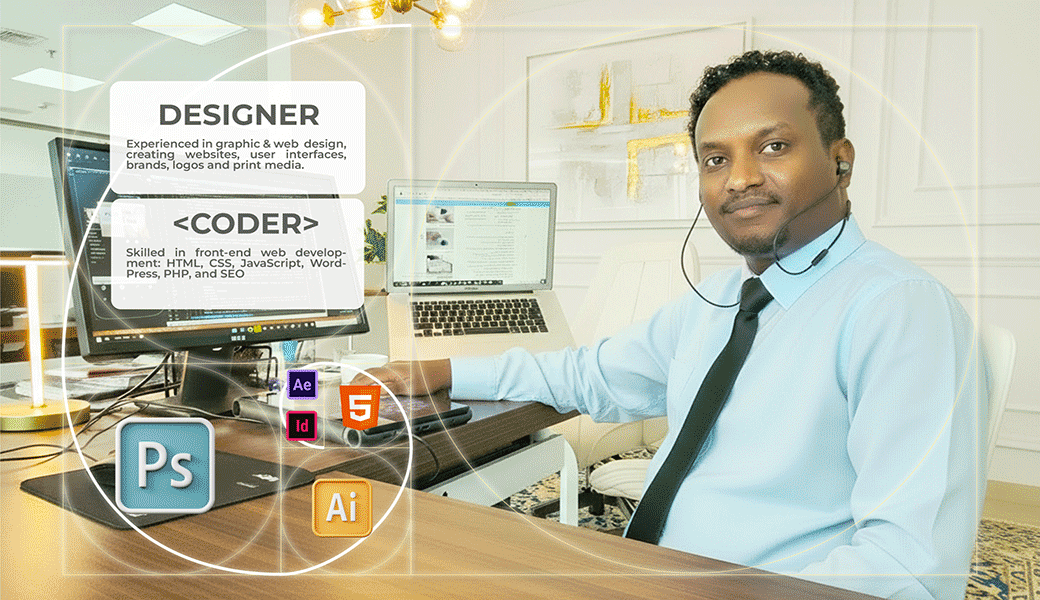
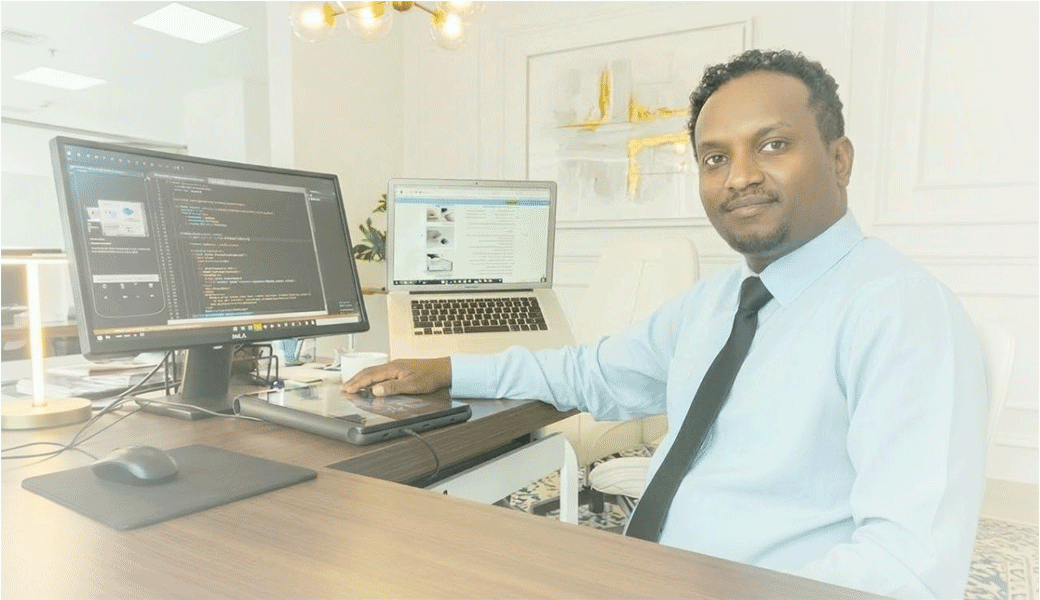
Black bold hero text and latest files

diff --git a/admin.html b/admin.html
@@ -68,7 +68,7 @@ function home(){if(!D.site)D.site=defSite();const s=D.site,I=(k,v,ph='')=>`<inpu
 Lc=(t,x)=>`<div class="lc"><b>${t}</b>${x}</div>`,img=(path,t,i=0)=>`<div class="cov">${path?`<img src="${E(src(path))}" style="object-fit:contain">`:'<span>Default / none</span>'}<div><button data-a="cov" data-t="${t}" data-i="${i}">Upload image</button>${path?`<button data-a="covx" data-t="${t}" data-i="${i}">Remove</button>`:''}</div></div>`;
 $('#ed').innerHTML=`<div class="tb"><b>Home page</b><span class="sp"></span><a href="index.html" target="_blank">Preview live</a></div><p class="hint">Home cards: edit each category's name and image from the list on the left. They appear in the same order.</p>`
 +`<h4>Header &amp; footer</h4>`+Lc('Logo (square PNG, 128×128 or larger)',img(s.logo,'logo'))+`<div class="two">`+L('Facebook link',I('s.social.facebook',s.social.facebook))+L('LinkedIn link',I('s.social.linkedin',s.social.linkedin))+L('Instagram link',I('s.social.instagram',s.social.instagram))+L('YouTube link',I('s.social.youtube',s.social.youtube))+`</div>`+L('Footer text',I('s.footer',s.footer))
-+`<h4>Hero</h4>`+Lc('Hero image (transparent PNG, about 1040×600)',img(s.hero.image,'hero'))+`<div class="two">`+L('Left heading',I('s.hero.left.title',s.hero.left.title))+L('Right heading',I('s.hero.right.title',s.hero.right.title))+L('Left text',T('s.hero.left.text',s.hero.left.text))+L('Right text',T('s.hero.right.text',s.hero.right.text))+`</div>`
++`<h4>Hero</h4>`+Lc('Hero image (a wide photo or a transparent PNG, about 1600×800)',img(s.hero.image,'hero'))+`<div class="two">`+L('Left heading',I('s.hero.left.title',s.hero.left.title))+L('Right heading',I('s.hero.right.title',s.hero.right.title))+L('Left text',T('s.hero.left.text',s.hero.left.text))+L('Right text',T('s.hero.right.text',s.hero.right.text))+`</div>`
 +`<h4>Section titles</h4><div class="two">`+L('Previous work',I('s.titles.previous',s.titles.previous))+L('Video slider',I('s.titles.videos',s.titles.videos))+L('Industries',I('s.titles.industry',s.titles.industry))+`</div>`
 +`<h4>Motion graphics video slider<button data-a="vadd">+ Video</button></h4>`+s.videos.map((v,i)=>`<div class="box"><div class="two">${L('Title',I(`s.videos.${i}.title`,v.title))}${L('Duration',I(`s.videos.${i}.duration`,v.duration,'01:05'))}</div>${L('YouTube link (thumbnail is automatic)',`<input data-b="s.videos.${i}.yt" data-yt="1" value="${v.yt?'https://youtu.be/'+v.yt:''}" placeholder="https://youtu.be/…">`)}${L('Other link, if not YouTube (optional)',I(`s.videos.${i}.link`,v.link))}${Lc('Custom thumbnail (16:9, overrides the YouTube one)',img(v.image,'vt',i))}<div><button data-a="vmv" data-i="${i}" data-d="-1">↑</button><button data-a="vmv" data-i="${i}" data-d="1">↓</button><button data-a="vdel" data-i="${i}" class="dng">Delete video</button></div></div>`).join('')}
 
@@ -111,7 +111,7 @@ ed.innerHTML=`<div class="tb"><b>${E(c.title)} ›</b><span class="sp"></span><b
 +`<h4>Media at the end <small class="hint">(after all sections)</small></h4>`+mb(p.images,'m',0);
 bindDrops()}
 
-async function proc(f,mode,cid){const cover=/^(c|p|vt)$/.test(mode),png=/^(logo|hero|k:.*)$/.test(mode);let ext,b64,mime;
+async function proc(f,mode,cid){const cover=/^(c|p|vt)$/.test(mode),png=/^(logo|hero|k:.*)$/.test(mode)&&f.type!=='image/jpeg';let ext,b64,mime;
 if(/gif|svg/.test(f.type)){ext=f.type.includes('gif')?'gif':'svg';mime=f.type;b64=await rd(f)}
 else{const bm=await createImageBitmap(f);let sx=0,sy=0,sw=bm.width,sh=bm.height;if(cover){const r=16/9;if(sw/sh>r){sw=sh*r;sx=(bm.width-sw)/2}else{sh=sw/r;sy=(bm.height-sh)/2}}
 const tw=Math.round(Math.min(png?2080:1600,sw)),th=Math.round(tw*sh/sw),cv=document.createElement('canvas');cv.width=tw;cv.height=th;const x=cv.getContext('2d');if(!png){x.fillStyle='#fff';x.fillRect(0,0,tw,th)}x.drawImage(bm,sx,sy,sw,sh,0,0,tw,th);

diff --git a/theme.css b/theme.css
@@ -65,3 +65,13 @@ header{height:62px}#menu{top:62px}.logo img,.logo .ph{width:36px;height:36px}
 .hero .r{left:auto;right:0;text-align:right}.hero p{display:none}
 .hero h2{font-size:clamp(20px,5.8vw,34px)}.work{padding:40px 0 70px}}
 .logo .ph{overflow:hidden;padding:0}.logo .ph *{display:none}
+/* Hero: text stays on the photo but sits low, in the bottom corners, clear of the face and the screen */
+.hero-in{display:block;padding:0;position:relative}
+.hero-in>:first-child{display:block;width:100%;height:auto;aspect-ratio:1040/600!important;object-fit:cover;object-position:50% 20%}
+.hero-in::after{content:"";position:absolute;left:0;right:0;bottom:0;height:34%;background:linear-gradient(to top,rgba(255,255,255,.88),rgba(255,255,255,0));pointer-events:none}
+.hero .side,.hero .side.l,.hero .side.r{position:absolute;top:auto;bottom:5%;margin:0;padding:0 24px;max-width:46%;z-index:2}
+.hero .side.l{left:0;text-align:left}.hero .side.r{right:0;text-align:right}
+.hero h2{font-size:clamp(28px,4.4vw,52px);color:#000;font-weight:700;line-height:1}
+.hero p{display:block;font-size:clamp(13px,1.35vw,16px);line-height:1.5;color:#000;font-weight:600;margin-top:8px;max-width:360px}.hero .r p{margin-left:auto}
+@media(max-width:900px){.hero .side,.hero .side.l,.hero .side.r{bottom:4%;padding:0 14px;max-width:none}.hero h2{font-size:clamp(20px,6.4vw,32px)}.hero p{display:none}.hero-in::after{height:26%}}
+.logo .ph{overflow:hidden;padding:0}.logo .ph *{display:none}
